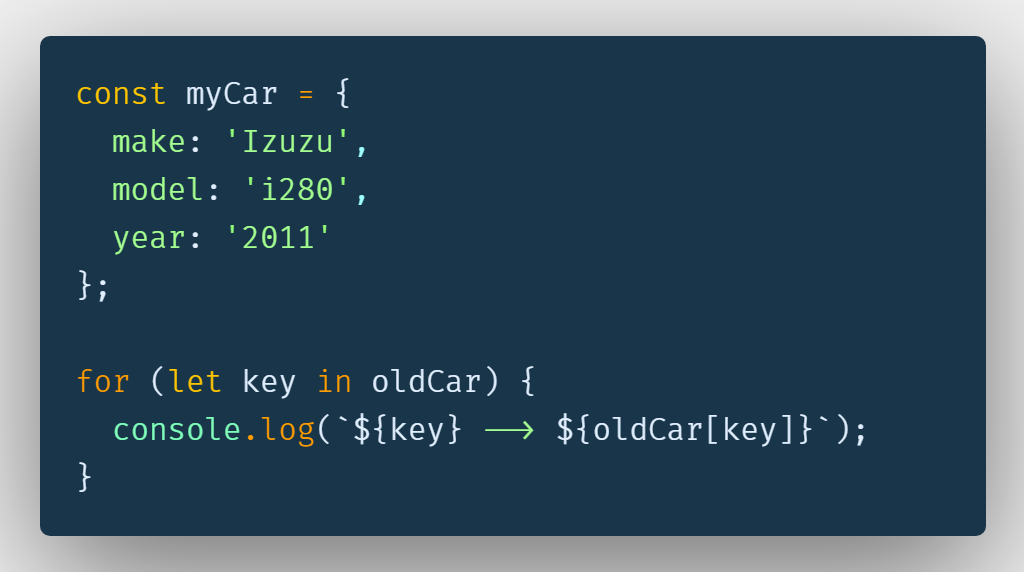
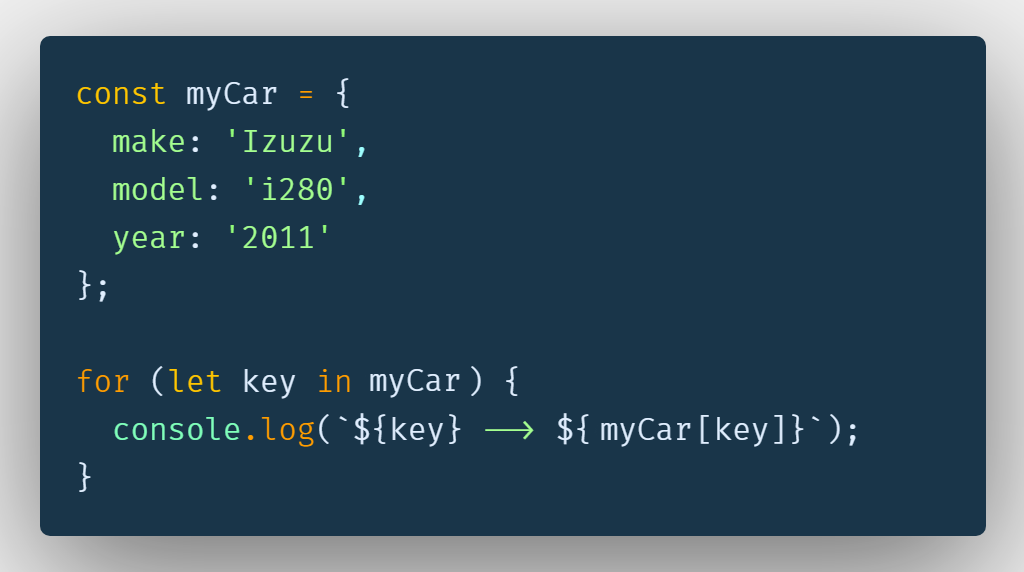
updating typos and image typos

Changed region(s): [[0.5625, 0.7133, 0.8438, 0.7727], [0.3438, 0.6241, 0.5312, 0.6836]]

diff --git a/README.md b/README.md
@@ -1,110 +1,5 @@
 # JavaScript - Back to Basics
 
-## Table of Contents
-
-- Intro
-- Who is this for?
-- What to expect?
-- Language Fundamentals
-  - Variables
-    - Variable Types
-    - Naming Rules
-    - Style Rules
-    - Examples
-    - Var Exercises
-  - Functions
-    - Anonymous
-    - Declaration
-    - Expression
-    - Arrow
-    - Paramters / Arguments
-    - Callbacks
-      - CB Example Alert
-      - CB Example Anonymous
-      - CB Example Declaration
-    - Default Parameters
-    - Function Exercises
-  - Scope
-    - Global
-    - Local
-    - Function
-    - Block
-    - Comparison Table
-  - Objects
-    - Properties and Methods
-    - Dot Notation
-    - Bracket Notation
-    - Bracket Notation Use Case 1
-    - Bracket Notation Use Case 2
-  - Strings
-    - Concatenation
-    - Template Literals
-    - Length Property
-    - toUpperCase
-    - toLowerCase
-    - trim
-    - Chainable
-    - split
-  - Numbers
-    - parseInt
-    - parseFloat
-    - toFixed
-  - Coercion
-  - Arrays
-    - Array Methods
-    - Accessors
-      - includes
-      - indexOf
-      - join
-      - slice
-    - Iterators
-      - forEach
-      - map
-      - filter
-    - Mutators
-      - pop
-      - push
-      - shift
-      - unshift
-      - splice
-  - Looping
-    - While Loops
-    - For Loops
-    - For ... in loops
-    - For ... of loops
-  - Conditions
-    - == vs ===
-    - != vs !==
-    - > vs <
-    - > = vs <=
-    - Logic Operators
-      - And
-      - Or
-  - The DOM
-    - Select Elements
-      - querySelector
-      - querySelectorAll
-    - Caching the DOM
-    - Properties on the DOM
-  - Events
-    - Types of Events
-      - Mouse Events
-      - Touch Events
-      - Keyboard Events
-      - Form Events
-      - Window Events
-    - Add Event Listener
-    - Remove Event Listener
-- Advanced Topics
-  - JSON
-    - Rules
-    - Demystifying
-  - Destructuring
-  - Spread
-  - Rest
-  - Promises
-  - Fetch API
-
 ## Intro
 
 My name is Jeremy "Jermbo" Lawson. You can find me on Twitter and GitHub @jermbo
@@ -1323,8 +1218,8 @@ const myCar = {
   year: '2011'
 };
 
-for (let key in oldCar) {
-  console.log(`${key} --> ${oldCar[key]}`);
+for (let key in myCar) {
+  console.log(`${key} --> ${myCar[key]}`);
 }
 ```
 
@@ -1734,6 +1629,25 @@ function externalFunc(e) {
 
 click1.removeEventListener("click", () => {}); // Still active
 click2.removeEventListener("click", externalFunc); // Removed click event
+```
+
+#### Event Object
+
+Different Events have different information associated with them. Every event that is triggered will generate an **Event Object** and will be passed to the function that executes when the event is triggered.
+
+```JavaScript
+document.addEventListener('keypress', function(e) {
+  console.log(e.key);
+});
+
+const btn = document.querySelector('.btn');
+btn.addEventListener('click', function(e) {
+  e.preventDefault();
+  console.log(e.target.innerText);
+});
+btn.addEventListener('mouseenter', function(e) {
+  console.log(`x: ${e.clientX} - y: ${e.clientY}`);
+})
 ```
 
 ## Advanced Topics
